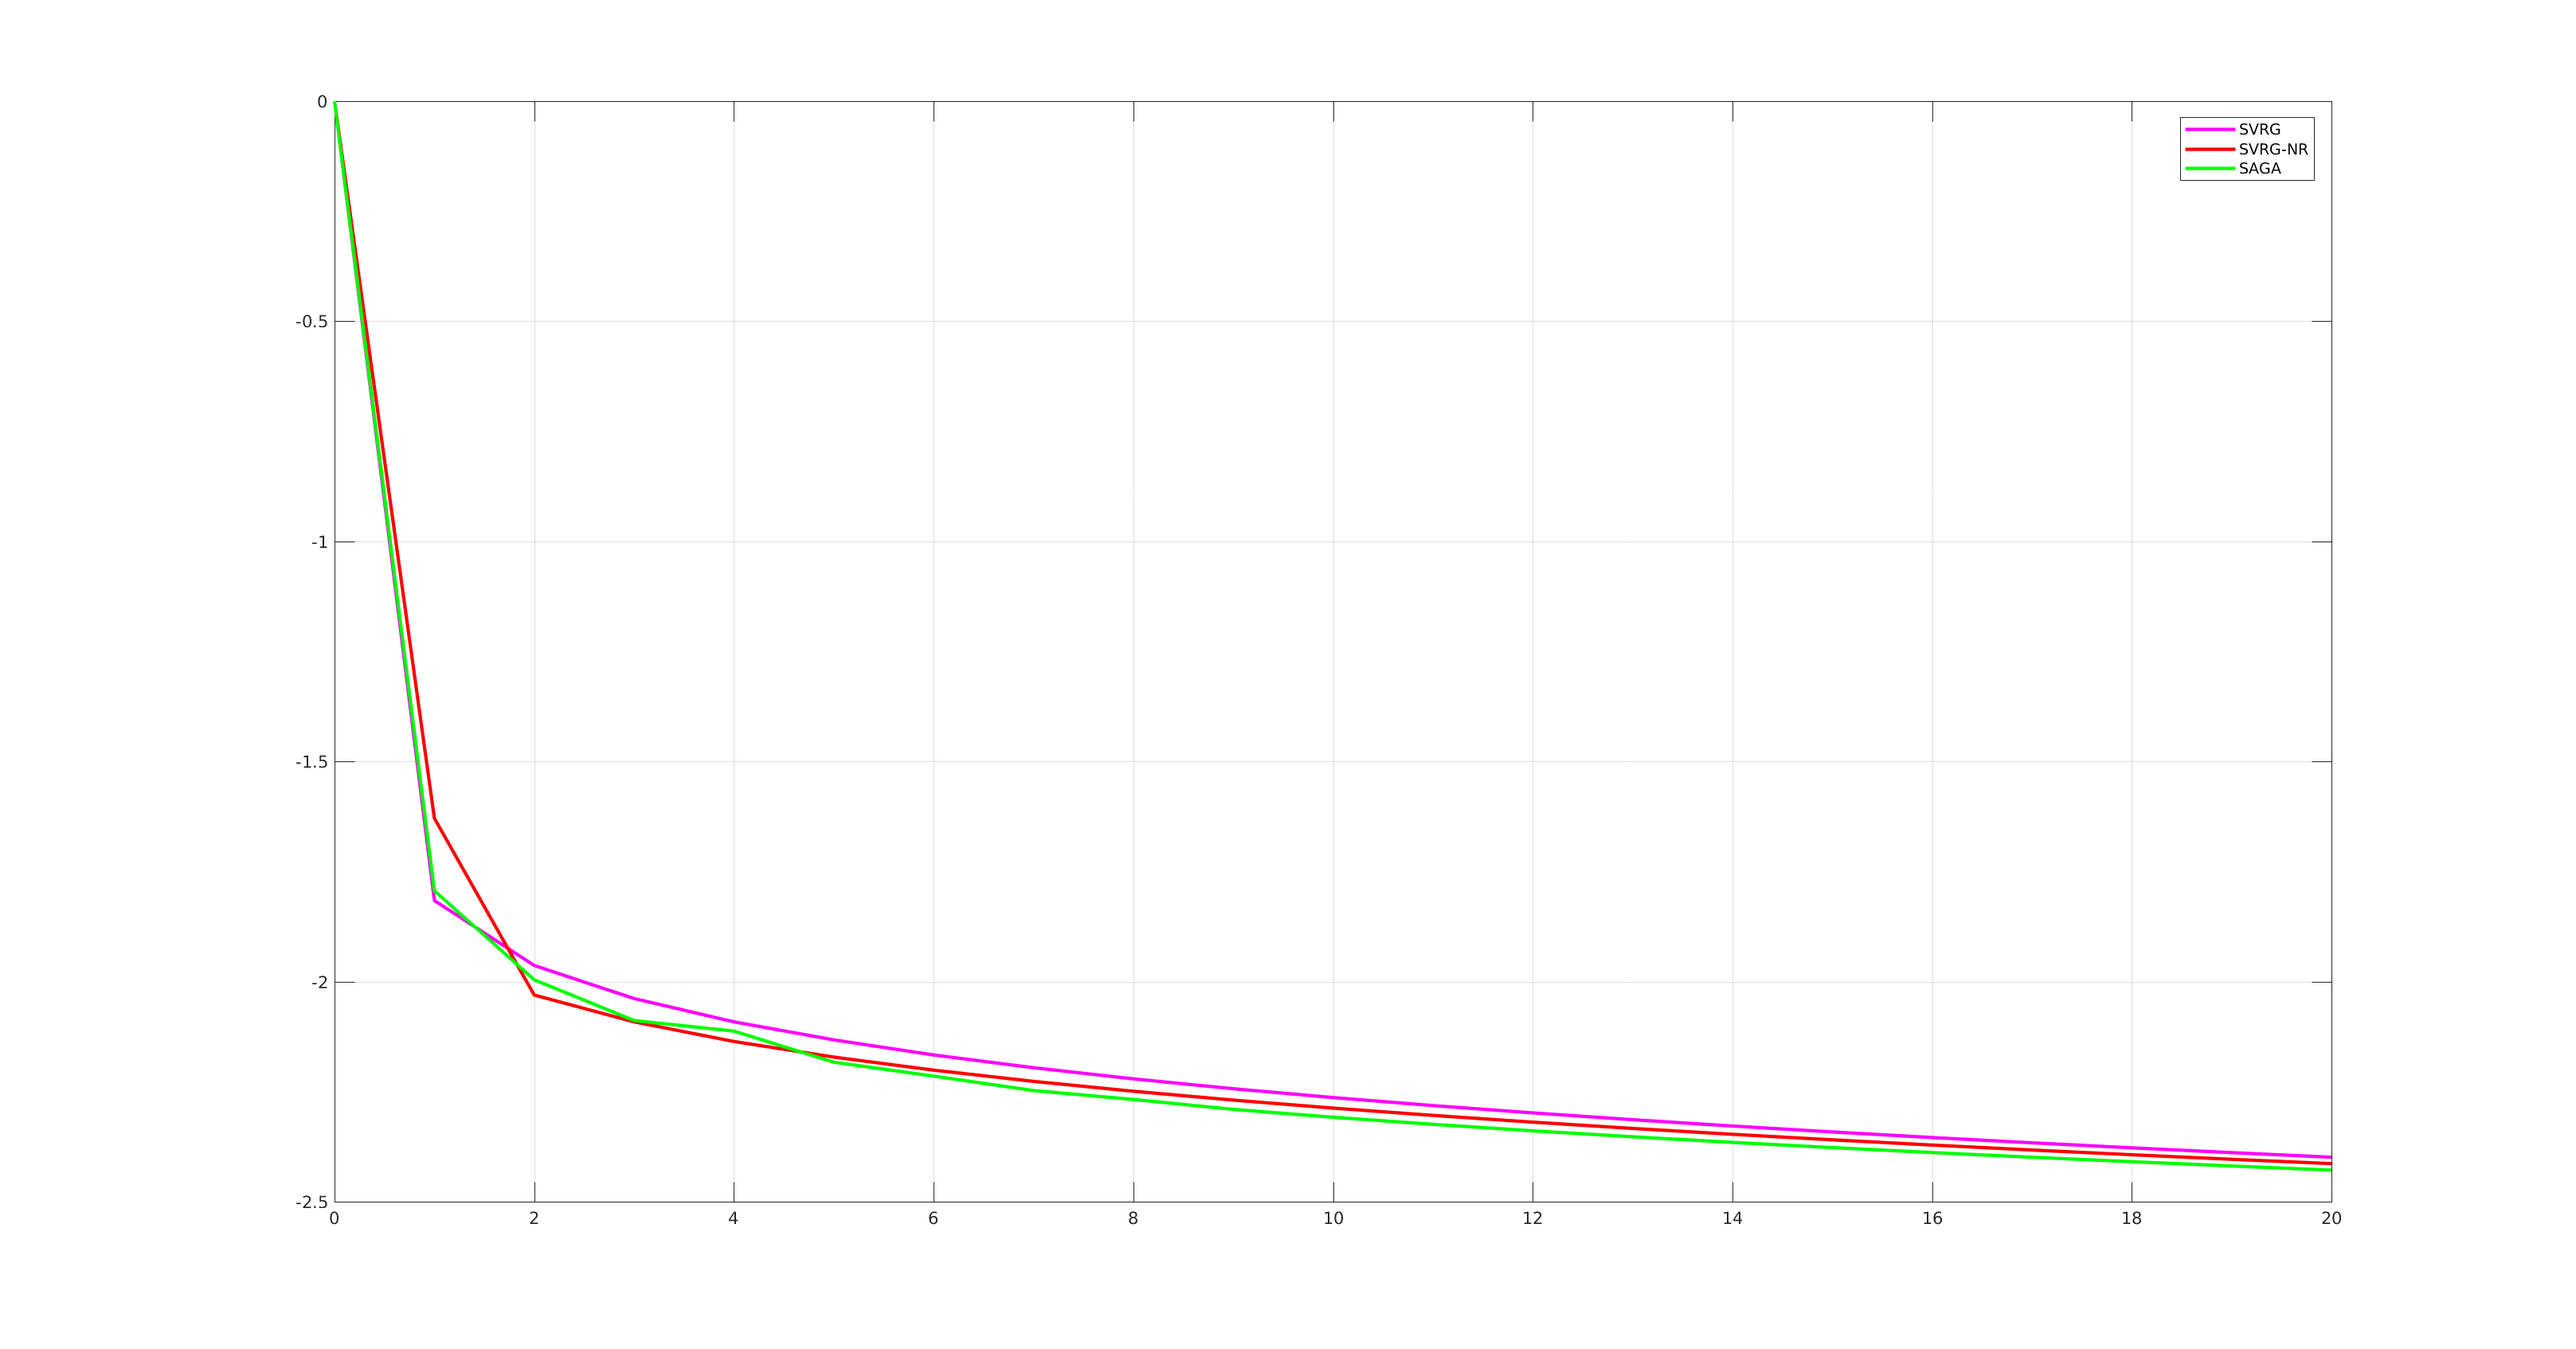
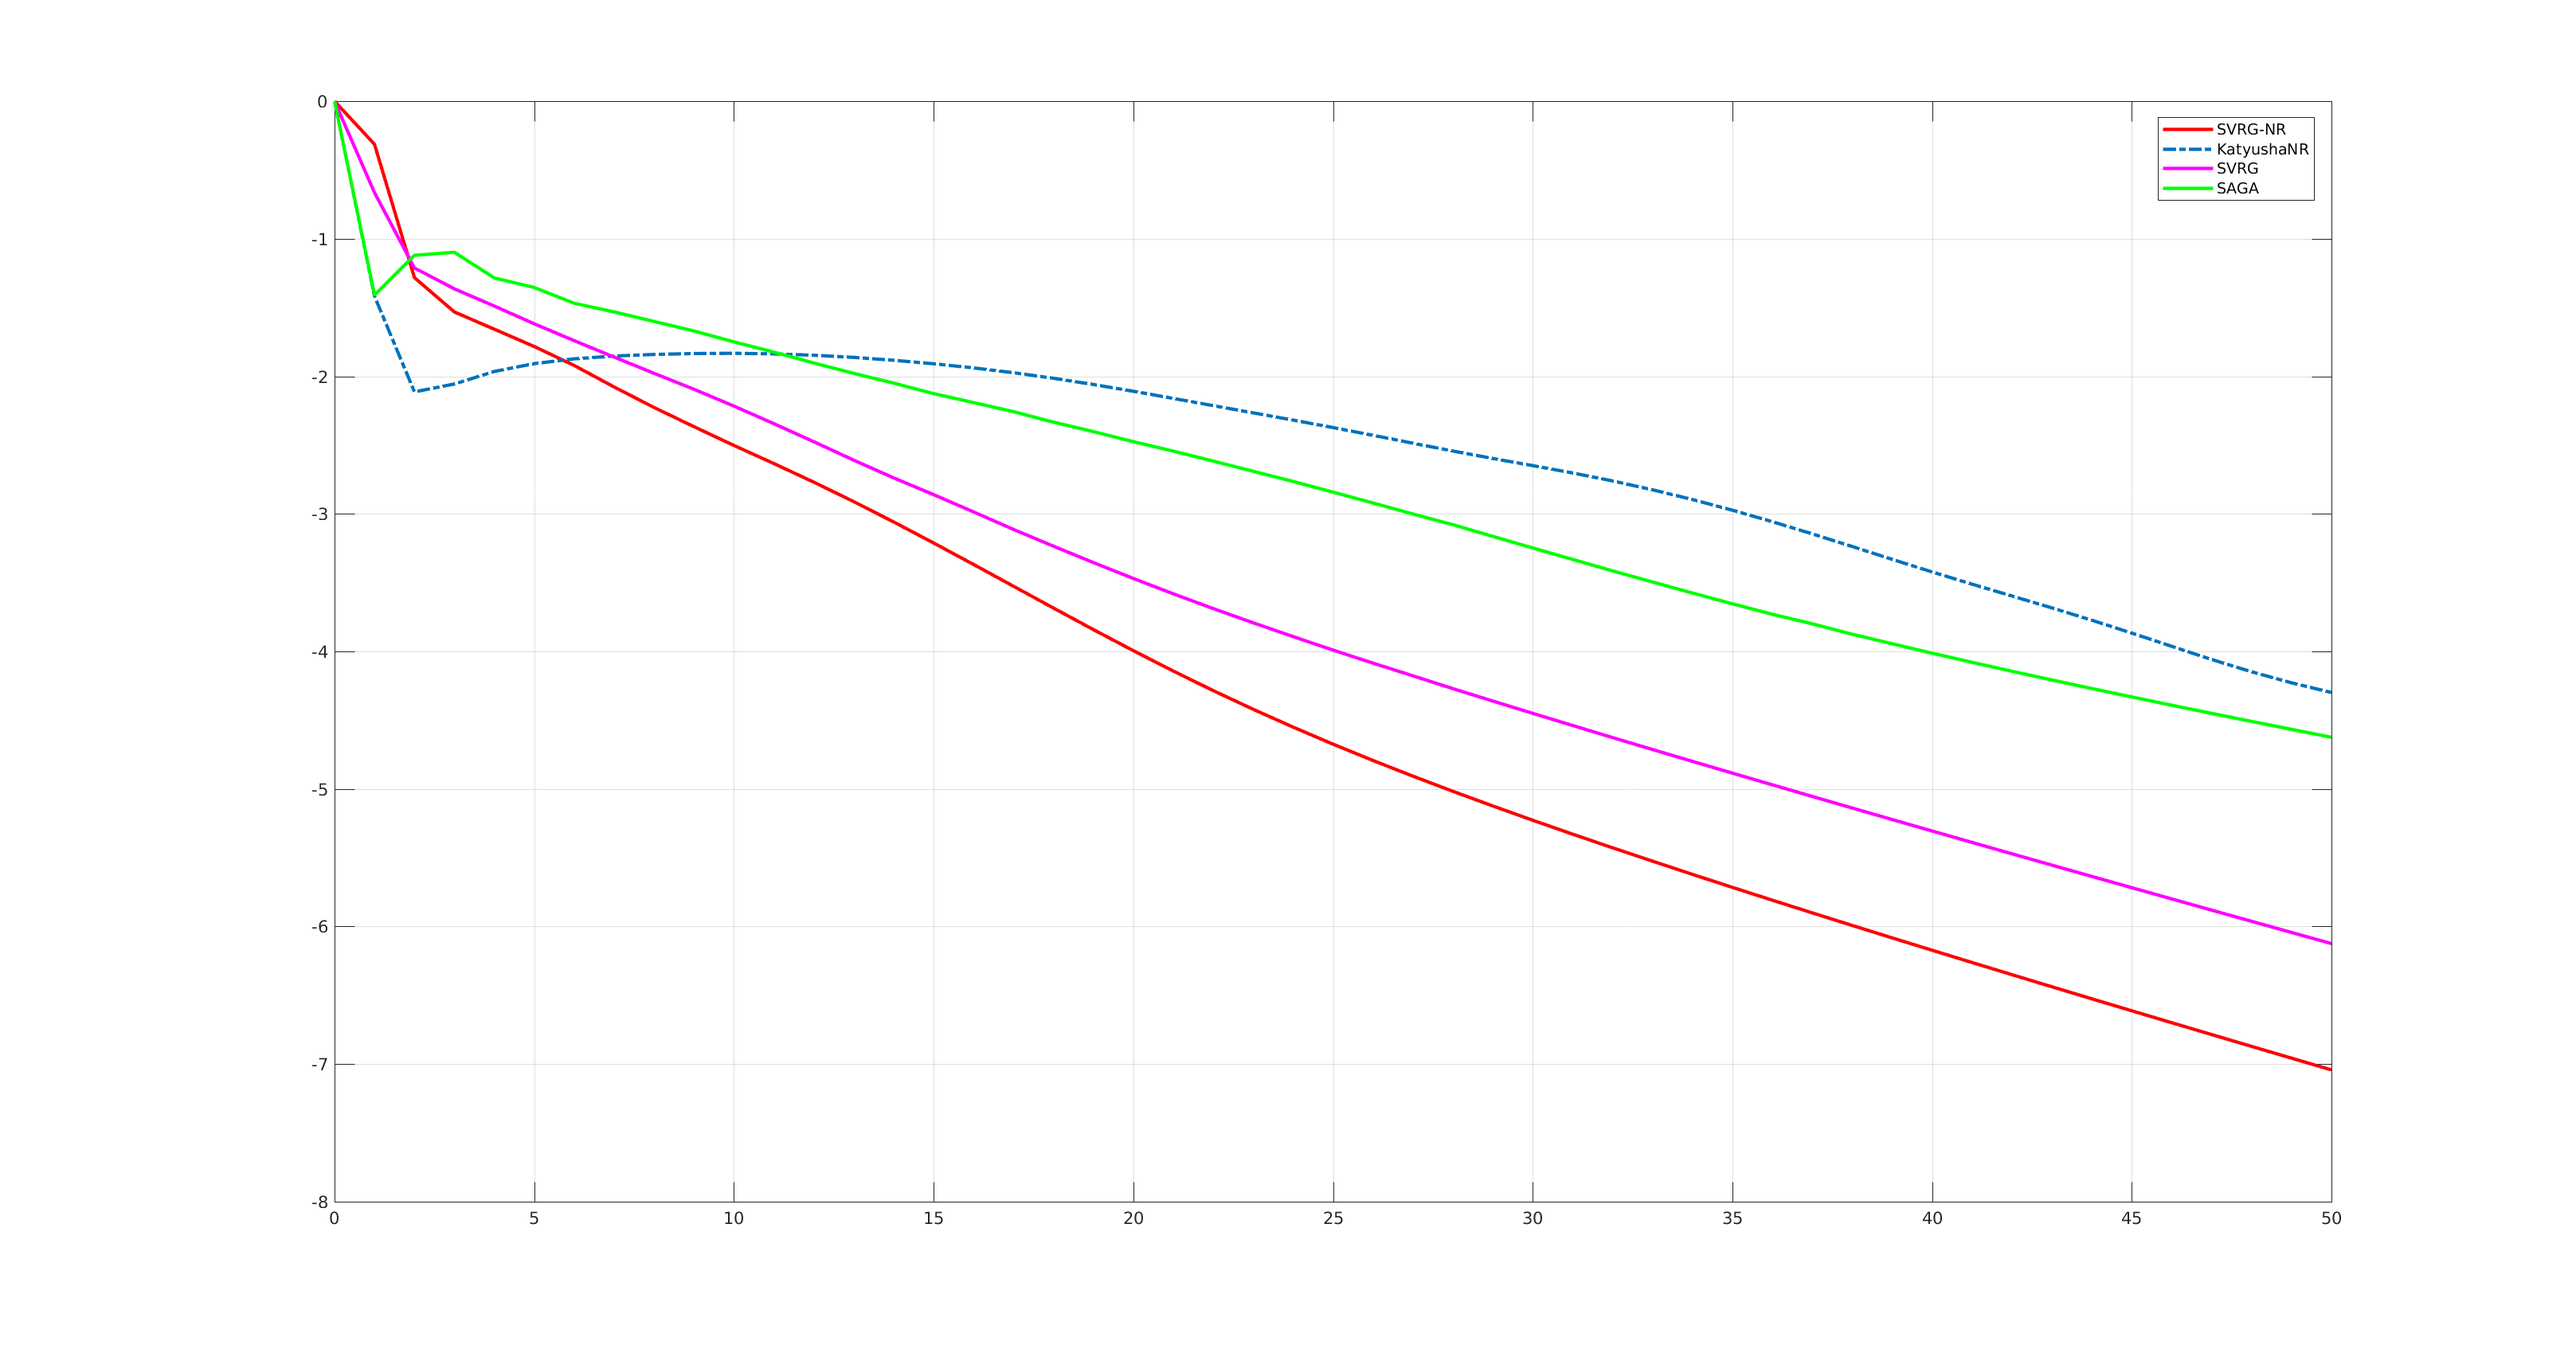
Katyusha does not work on MNIST

diff --git a/main.m b/main.m
@@ -1,8 +1,8 @@
 % dataset : toy, covtype, rcv1, avazu, MNIST.
 dataset = 'MNIST';
-passes = 20;
-factor = 0.2;
-lambda = 1e-5;
+passes = 50;
+factor = 5;
+lambda = 1e-4;
 
 %% preliminaries
 [Xtrain, Xtest, ytrain, ytest] = LoadDataset(dataset);  % load dataset
@@ -28,11 +28,13 @@ logCost.optCost = logCost.Cost(wOpt, Xtrain, ytrain)
 
 %% have fun
 
-SVRG(logCost, Xtrain, ytrain, Xtest, ytest, passes, factor);
 SVRGNR(logCost, Xtrain, ytrain, Xtest, ytest, passes, factor);
+KatyushaNR(logCost, Xtrain, ytrain, Xtest, ytest, passes, factor);
+SVRG(logCost, Xtrain, ytrain, Xtest, ytest, passes, factor);
 % SVRGNRM(logCost, Xtrain, ytrain, Xtest, ytest, passes, factor);
 
 % SVRGM(logCost, Xtrain, ytrain, Xtest, ytest, passes, factor);
+factor = 5;
 SAGA(logCost, Xtrain, ytrain, Xtest, ytest, passes, factor);
 % SGD(logCost, Xtrain, ytrain, Xtest, ytest, passes, factor);
 % GD(logCost, Xtrain, ytrain, Xtest, ytest, passes, factor);

diff --git a/LoadDataset.m b/LoadDataset.m
@@ -66,6 +66,11 @@ elseif strcmp(name, 'MNIST')
     ytrain = ytrain(trainValid);
     ytrain(ytrain == 0) = -1;
 
+    [n, ~] = size(Xtrain);
+    ordering = randperm(seed, n);
+    Xtrain = Xtrain(ordering, :);
+    ytrain = ytrain(ordering);
+
     testValid = (ytest <= 1);
     Xtest = Xtest(testValid, :);
     ytest = ytest(testValid, :);
